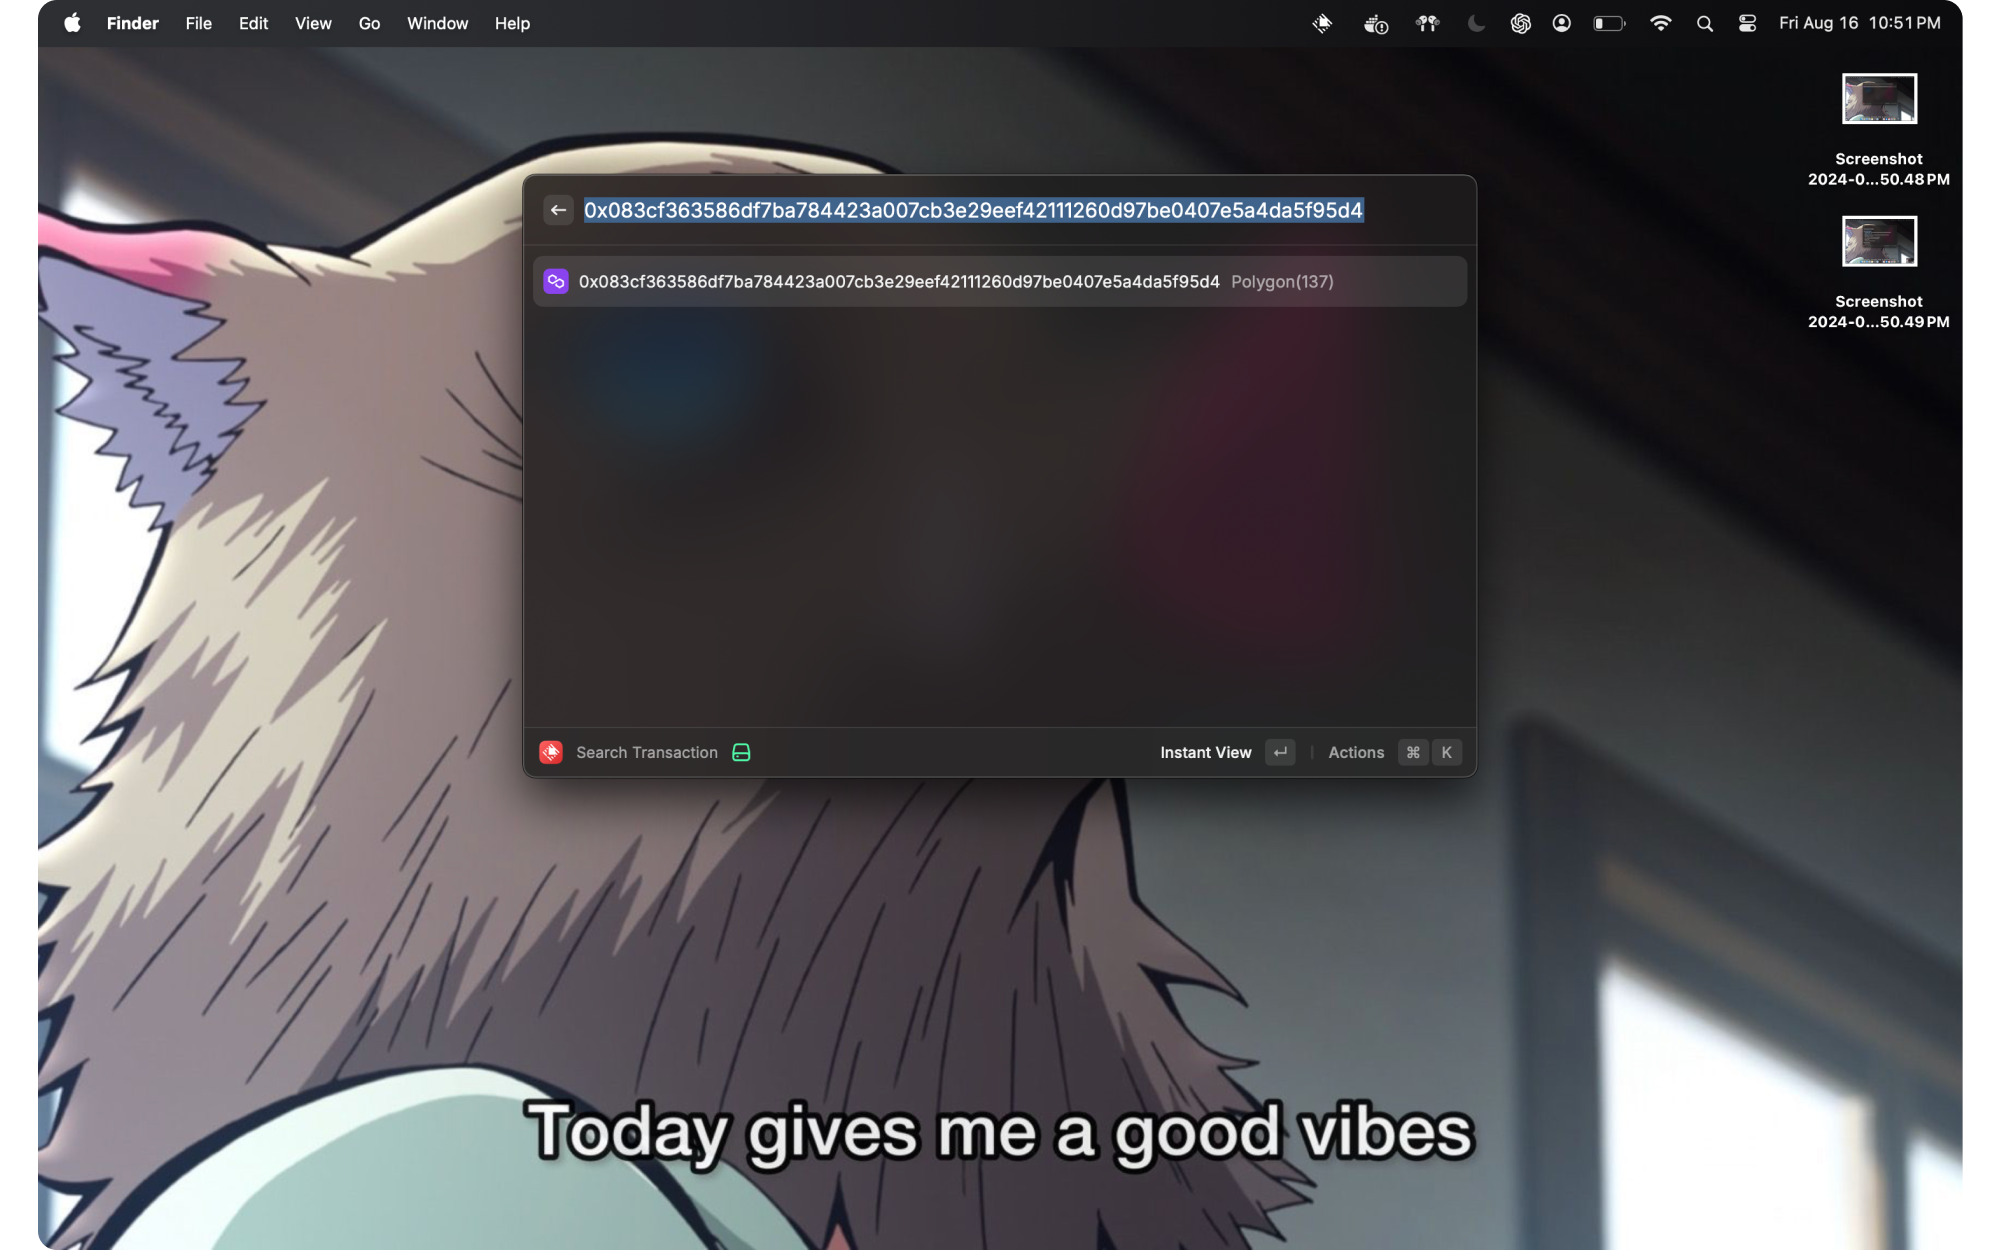
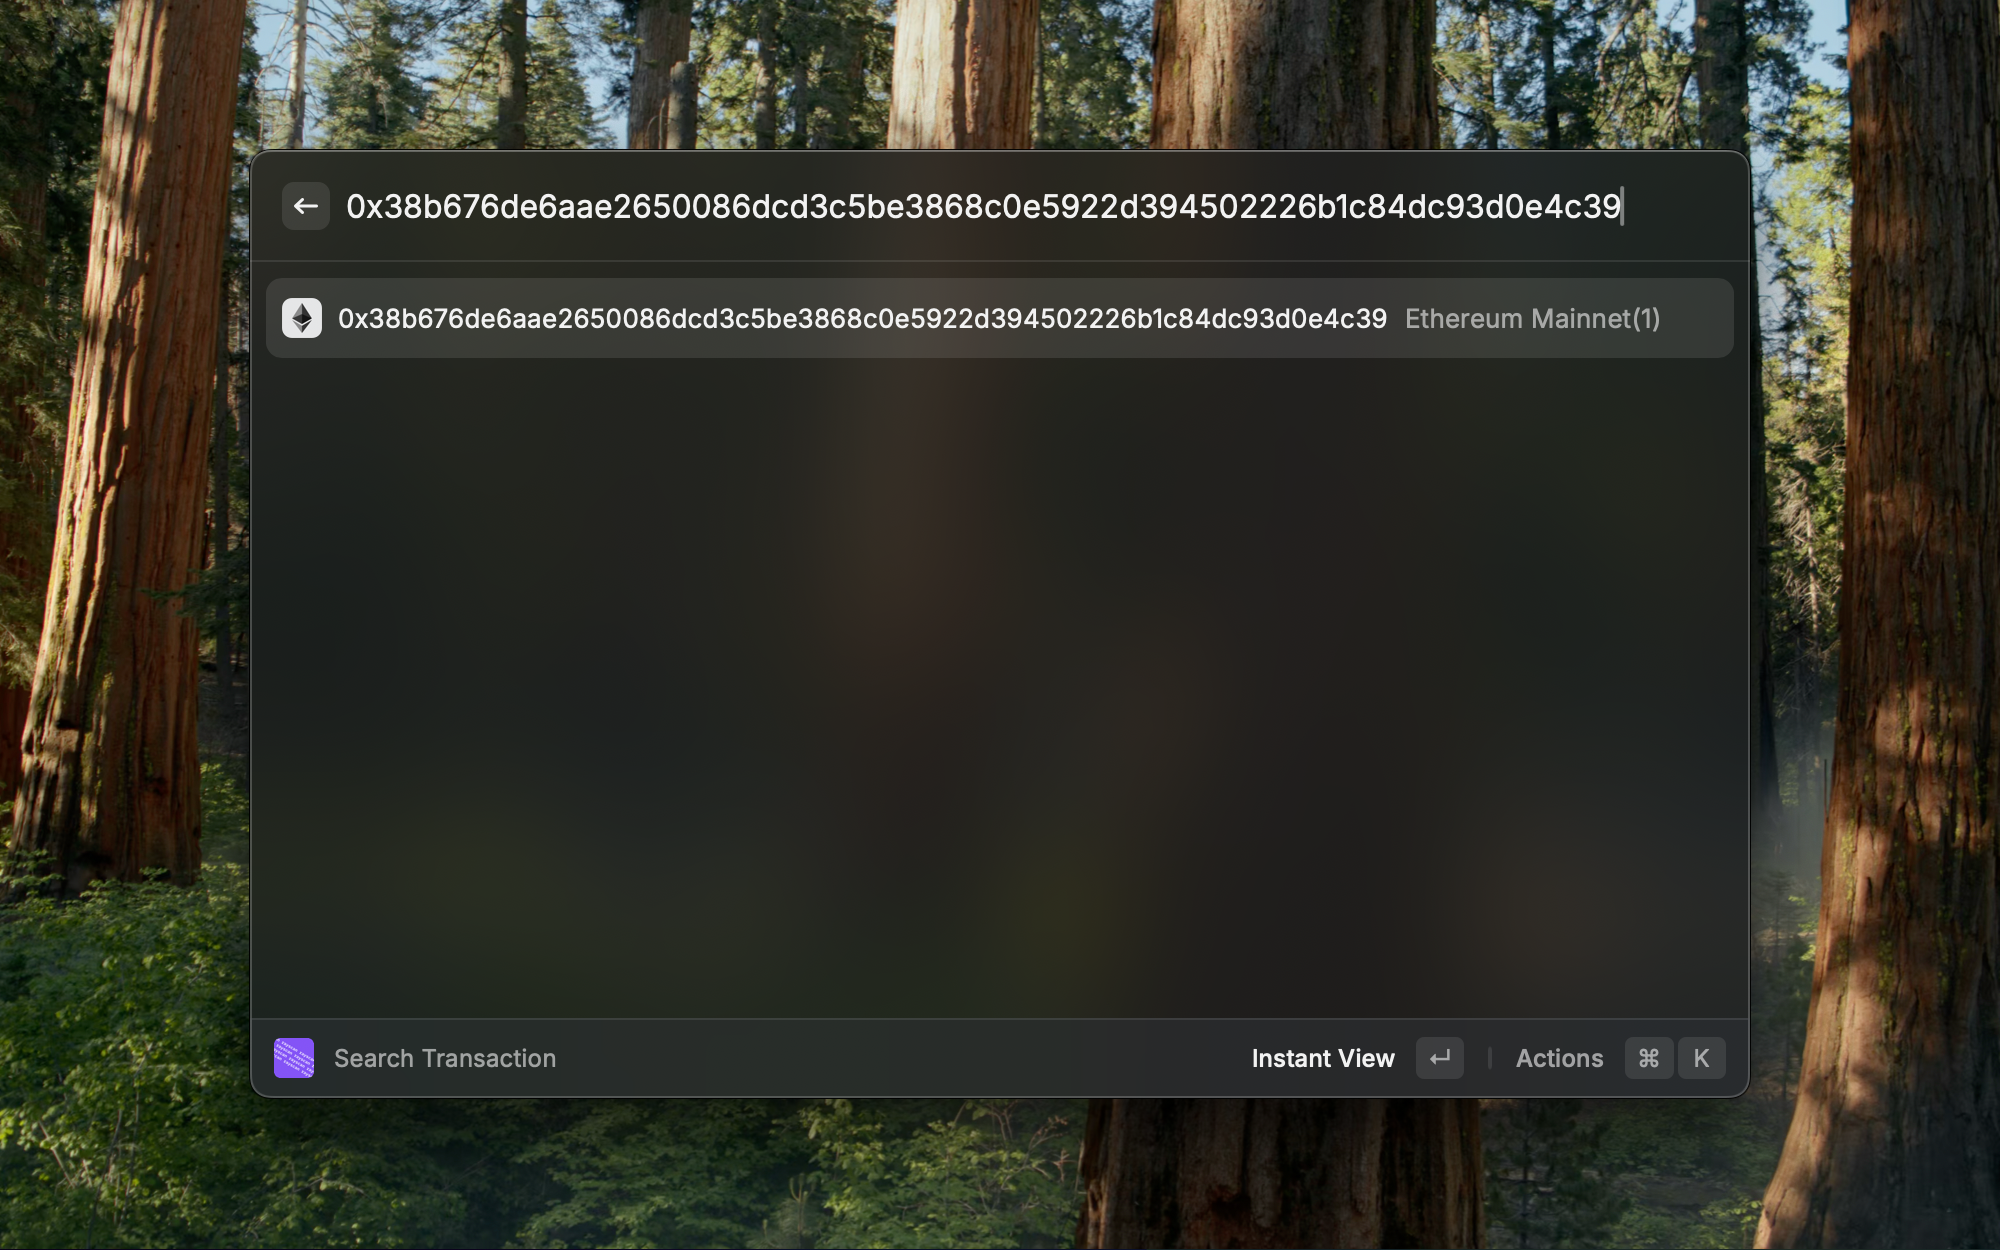
Updated & sanitized for public release

diff --git a/src/index.tsx b/src/index.tsx
@@ -1,14 +1,14 @@
 import { Action, ActionPanel, Detail, Icon, Image, List } from "@raycast/api";
 import { usePromise } from "@raycast/utils";
 import { useState } from "react";
-import { getTransactions, openInTenderly, validateHash } from "./utils";
+import { getTransactions, isNitro, openInNitro, openInTenderly, validateHash } from "./utils";
 import { Transaction } from "./types";
-import { network_configs } from "./networkConfig";
+import { network_configs, nitro_contracts } from "./networkConfig";
 
 export default function Command() {
   const [searchText, setSearchText] = useState("");
   const { data, isLoading, error } = usePromise(getTransactions, [searchText], { execute: validateHash(searchText) });
-
+  const transactions = data?.transactions ?? [];
   return (
     <List onSearchTextChange={setSearchText} isLoading={isLoading}>
       {error && (
@@ -18,8 +18,8 @@ export default function Command() {
           icon={{ source: Icon.XMarkCircle, tintColor: "#DB4437" }}
         />
       )}
-      {!error &&
-        data?.transactions.map((transaction) => {
+      {!error && transactions.length !== 0 &&
+        transactions.map((transaction) => {
           const network = network_configs[transaction.network_id];
           return (
             <List.Item
@@ -34,6 +34,15 @@ export default function Command() {
                     target={<TransactionDetail transaction={transaction} />}
                     icon={Icon.Eye}
                   />
+                  {
+                    isNitro(transaction) && (
+                      <Action.OpenInBrowser
+                        icon={Icon.ArrowNe}
+                        url={openInNitro(transaction)}
+                        title="Open in Nitro"
+                      />
+                    )
+                  }
                   <Action.OpenInBrowser
                     icon={Icon.ArrowNe}
                     url={openInTenderly(transaction)}
@@ -44,6 +53,13 @@ export default function Command() {
             />
           );
         })}
+      {
+        !error && transactions.length === 0 && searchText === "" && (
+          <List.EmptyView
+            title="Enter a transaction hash to search"
+          />
+        )
+      }
     </List>
   );
 }
@@ -90,7 +106,7 @@ export function TransactionDetail({ transaction }: { transaction: Transaction })
     `- **Block Hash:** \`${transaction.block_hash}\``,
     `- **Block Number:** \`${transaction.block_number.toLocaleString()}\``,
     `- **From:** \`${transaction.from}\``,
-    `- **To:** \`${transaction.to}\``,
+    `- **To:** \`${transaction.to}\` \`${isNitro(transaction) ? "(Nitro)" : ""}\``,
     `- **Nonce:** \`${transaction.nonce.toLocaleString()}\``,
     `- **Timestamp:** \`${readableDate} (${howAgo})\``,
     `## Gas Information`,
@@ -124,6 +140,15 @@ export function TransactionDetail({ transaction }: { transaction: Transaction })
       actions={
         <ActionPanel>
           <Action.OpenInBrowser url={openInTenderly(transaction)} title="Open in Tenderly" />
+          {
+            isNitro(transaction) && (
+              <Action.OpenInBrowser
+                icon={Icon.ArrowNe}
+                url={openInNitro(transaction)}
+                title="Open in Nitro"
+              />
+            )
+          }
         </ActionPanel>
       }
     />

diff --git a/src/networkConfig.ts b/src/networkConfig.ts
@@ -369,3 +369,41 @@ export const network_configs: NetworkConfigMap = {
     slug: null,
   },
 };
+
+
+export const nitro_contracts: {
+  [chainId: string]: string;
+} = {
+  '1': '0xc21e4ebd1d92036cb467b53fe3258f219d909eb9',
+  '10': '0x8201c02d4ab2214471e8c3ad6475c8b0cd9f2d06',
+  '30': '0xc21e4ebd1d92036cb467b53fe3258f219d909eb9',
+  '56': '0x260687ebc6c55dadd578264260f9f6e968f7b2a5',
+  '137': '0x1396f41d89b96eaf29a7ef9ee01ad36e452235ae',
+  '169': '0x21c1e74caadf990e237920d5515955a024031109',
+  '196': '0x21c1e74caadf990e237920d5515955a024031109',
+  '250': '0xc21e4ebd1d92036cb467b53fe3258f219d909eb9',
+  '288': '0xc21e4ebd1d92036cb467b53fe3258f219d909eb9',
+  '324': '0x8b6f1c18c866f37e6ea98aa539e0c117e70178a2',
+  '570': '0x21c1e74caadf990e237920d5515955a024031109',
+  '698': '0x21c1e74caadf990e237920d5515955a024031109',
+  '995': '0x7bd616192fb2b364f9d29b2026165281a5f2ff2f',
+  '1088': '0xc21e4ebd1d92036cb467b53fe3258f219d909eb9',
+  '1101': '0xc21e4ebd1d92036cb467b53fe3258f219d909eb9',
+  '1997': '0xf0773508c585246bd09bfb401aa18b72685b03f9',
+  '2000': '0x21c1e74caadf990e237920d5515955a024031109',
+  '2040': '0x21c1e74caadf990e237920d5515955a024031109',
+  '5000': '0xc21e4ebd1d92036cb467b53fe3258f219d909eb9',
+  '8453': '0x0fa205c0446cd9eedcc7538c9e24bc55ad08207f',
+  '23294': '0x21c1e74caadf990e237920d5515955a024031109',
+  '34443': '0xc21e4ebd1d92036cb467b53fe3258f219d909eb9',
+  '42161': '0xef300fb4243a0ff3b90c8ccfa1264d78182adaa4',
+  '43114': '0xf9f4c3dc7ba8f56737a92d74fd67230c38af51f2',
+  '59144': '0x8c4acd74ff4385f3b7911432fa6787aa14406f8b',
+  '81457': '0x97eec1c29f745dc7c267f90292aa663d997a601d',
+  '167000': '0x7bd616192fb2b364f9d29b2026165281a5f2ff2f',
+  '200901': '0x21c1e74caadf990e237920d5515955a024031109',
+  '534352': '0x01b4ce0d48ce91eb6bcaf5db33870c65d641b894',
+  '7225878': '0x21c1e74caadf990e237920d5515955a024031109',
+  '728126428': '0x9d25b8289c0f3789237c1b3a88264882eed6c610',
+  '1313161554': '0xc21e4ebd1d92036cb467b53fe3258f219d909eb9',
+}

diff --git a/src/utils.ts b/src/utils.ts
@@ -1,7 +1,7 @@
 // import { Cache } from "@raycast/api";
 import { Transaction, TransactionsResponse } from "./types";
 import fetch from "node-fetch";
-import { network_configs } from "./networkConfig";
+import { network_configs, nitro_contracts } from "./networkConfig";
 // import Parser from "rss-parser";
 // import { CacheEntry, Topic } from "./types";
 
@@ -40,6 +40,13 @@ export function openInTenderly(transaction: Transaction) {
   const network = network_configs[transaction.network_id];
   return `https://dashboard.tenderly.co/tx/${network.slug ?? network.networkName.toLowerCase().replace(" ", "-")}/${transaction.hash}`;
 }
+export function openInNitro(transaction: Transaction) {
+  return `https://explorer.routernitro.com/tx/${transaction.hash}`;
+}
+export function isNitro(transaction: Transaction) {
+  return transaction.to === nitro_contracts[transaction.network_id]
+}
+
 // export const gqlFetcher = async (url: string, query: string, variables: any) => {
 //     const response = await fetch(url, {
 //         method: 'POST',
